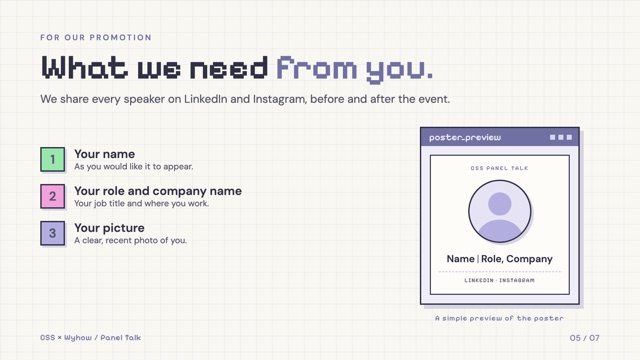
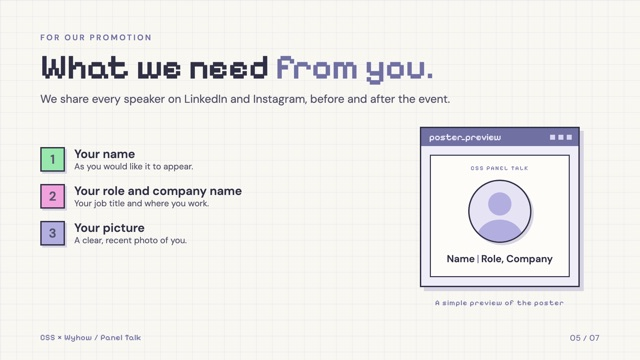
Add a featured-on-our-socials card and tidy the poster preview
Slide 4 now lists four ways we look after speakers, including a LinkedIn and Instagram feature. The poster preview on slide 5 no longer has the platform line.

Changed region(s): [[0.6562, 0.7639, 0.9375, 0.9167]]

diff --git a/external/01-wyhow-panel/index.html b/external/01-wyhow-panel/index.html
@@ -90,15 +90,15 @@
     .doc .sign{margin-top:54px;width:62%;border-top:3px solid var(--ink);padding-top:8px;font-size:22px;line-height:1.3;color:var(--muted)}
 
     /* Slide 4: speaker hospitality */
-    .perks{position:absolute;left:120px;right:120px;top:410px;display:grid;grid-template-columns:repeat(3,1fr);gap:48px}
+    .perks{position:absolute;left:120px;right:120px;top:410px;display:grid;grid-template-columns:repeat(4,1fr);gap:36px}
     .perk{border:4px solid var(--ink);background:var(--card);box-shadow:12px 12px 0 var(--shadow)}
     .perk .bar{height:48px;font-size:24px;padding:0 18px 0 20px}
     .perk .lights i{width:13px;height:13px}
-    .perk .body{padding:30px 34px 36px}
-    .perk svg{display:block;width:130px;height:96px;overflow:visible}
+    .perk .body{padding:28px 28px 32px}
+    .perk svg{display:block;width:112px;height:82px;overflow:visible}
     .perk svg *{stroke:var(--ink);stroke-width:5;stroke-linejoin:round;stroke-linecap:round}
-    .perk h3{margin-top:24px;font-size:46px;line-height:1.08}
-    .perk p{margin-top:12px;font-size:29px;line-height:1.35;color:var(--muted)}
+    .perk h3{margin-top:22px;font-size:38px;line-height:1.1}
+    .perk p{margin-top:12px;font-size:26px;line-height:1.35;color:var(--muted)}
     .note-strip{position:absolute;left:120px;right:120px;top:884px;display:flex;align-items:center;gap:18px;font-size:27px;color:var(--muted)}
     .note-strip i{flex:none;width:20px;height:20px;background:var(--mint);border:4px solid var(--ink)}
 
@@ -110,15 +110,14 @@
     .need span{display:block;font-size:26px;line-height:1.3;color:var(--muted)}
     .poster-win{left:1260px;top:380px;width:480px}
     .poster-win .body{padding:26px;background:var(--tint,#efedf8)}
-    .poster{display:flex;flex-direction:column;align-items:center;padding:26px 24px 30px;border:3px solid var(--ink);background:var(--card);text-align:center}
+    .poster{display:flex;flex-direction:column;align-items:center;padding:26px 24px 34px;border:3px solid var(--ink);background:var(--card);text-align:center}
     .poster .top{font:400 18px ClearDigits,Pixelify,monospace;letter-spacing:3px;text-transform:uppercase;color:var(--purple)}
     .poster .ph{position:relative;width:190px;height:190px;margin-top:24px;border:4px solid var(--ink);border-radius:50%;background:#e6e3f4;box-shadow:7px 7px 0 var(--shadow);overflow:hidden}
     .poster .ph::before{content:"";position:absolute;left:50%;top:34px;width:70px;height:70px;margin-left:-35px;border-radius:50%;background:var(--lavender)}
     .poster .ph::after{content:"";position:absolute;left:50%;top:116px;width:140px;height:120px;margin-left:-70px;border-radius:50%;background:var(--lavender)}
     .poster .who{margin-top:30px;font:600 30px/1.2 DM,Arial,sans-serif}
     .poster .who i{font-style:normal;font-weight:400;color:var(--purple);margin:0 6px}
-    .poster .where{margin-top:20px;padding-top:14px;width:100%;border-top:2px dashed var(--lavender);font:400 17px ClearDigits,Pixelify,monospace;letter-spacing:2px;color:var(--muted)}
-    .poster-note{position:absolute;left:1260px;top:942px;width:480px;font:400 22px ClearDigits,Pixelify,monospace;letter-spacing:2px;text-align:center;color:var(--purple)}
+    .poster-note{position:absolute;left:1260px;top:896px;width:480px;font:400 22px ClearDigits,Pixelify,monospace;letter-spacing:2px;text-align:center;color:var(--purple)}
 
     /* Slide 6: the road to event day */
     .road{position:absolute;left:120px;right:120px;top:400px;display:grid;grid-template-columns:repeat(3,1fr);gap:40px 48px;list-style:none;padding:0}
@@ -261,8 +260,16 @@
             <p>You are our guest for dinner on the day, at no cost to you.</p>
           </div>
         </article>
+        <article class="perk pop" style="--d:6">
+          <div class="bar"><span>featured</span><span class="lights" aria-hidden="true"><i></i><i></i><i></i></span></div>
+          <div class="body">
+            <svg viewBox="0 0 150 110" aria-hidden="true"><path d="M16 12h118v70H70l-24 22V82H16z" fill="#b3aee0"/><path d="M75 26l8 18 20 2-15 13 5 19-18-10-18 10 5-19-15-13 20-2z" fill="#fbe7a6"/></svg>
+            <h3>Featured on our socials</h3>
+            <p>We thank you with a post on our LinkedIn and Instagram, featuring you.</p>
+          </div>
+        </article>
       </div>
-      <p class="note-strip rise" style="--d:6"><i aria-hidden="true"></i>To be reimbursed, please send us your receipt: a fuel receipt or a Grab screenshot.</p>
+      <p class="note-strip rise" style="--d:7"><i aria-hidden="true"></i>To be reimbursed, please send us your receipt: a fuel receipt or a Grab screenshot.</p>
       <div class="footer"><span>CSS × Wyhow / Panel Talk</span><span>04 / 07</span></div>
     </section>
 
@@ -285,7 +292,6 @@
             <p class="top">CSS Panel Talk</p>
             <div class="ph"></div>
             <p class="who">Name<i>|</i>Role, Company</p>
-            <p class="where">LINKEDIN · INSTAGRAM</p>
           </div>
         </div>
       </div>
